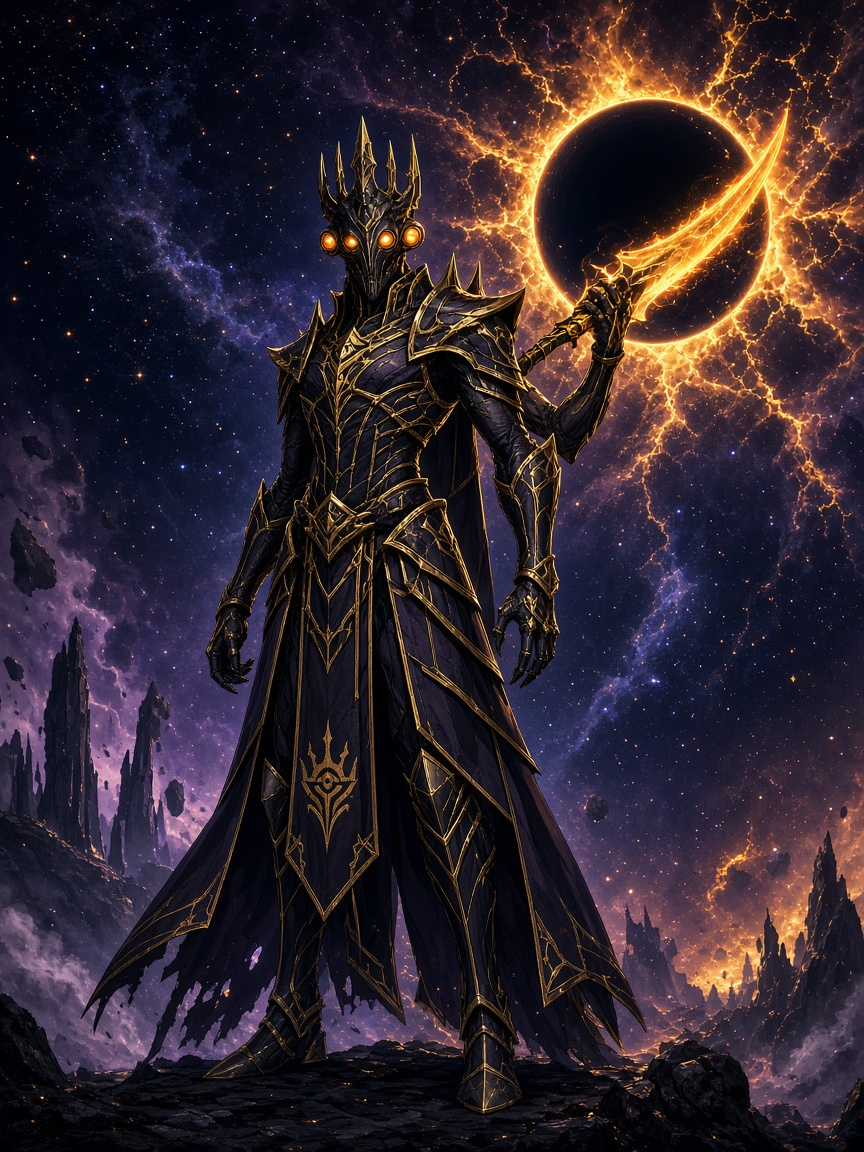
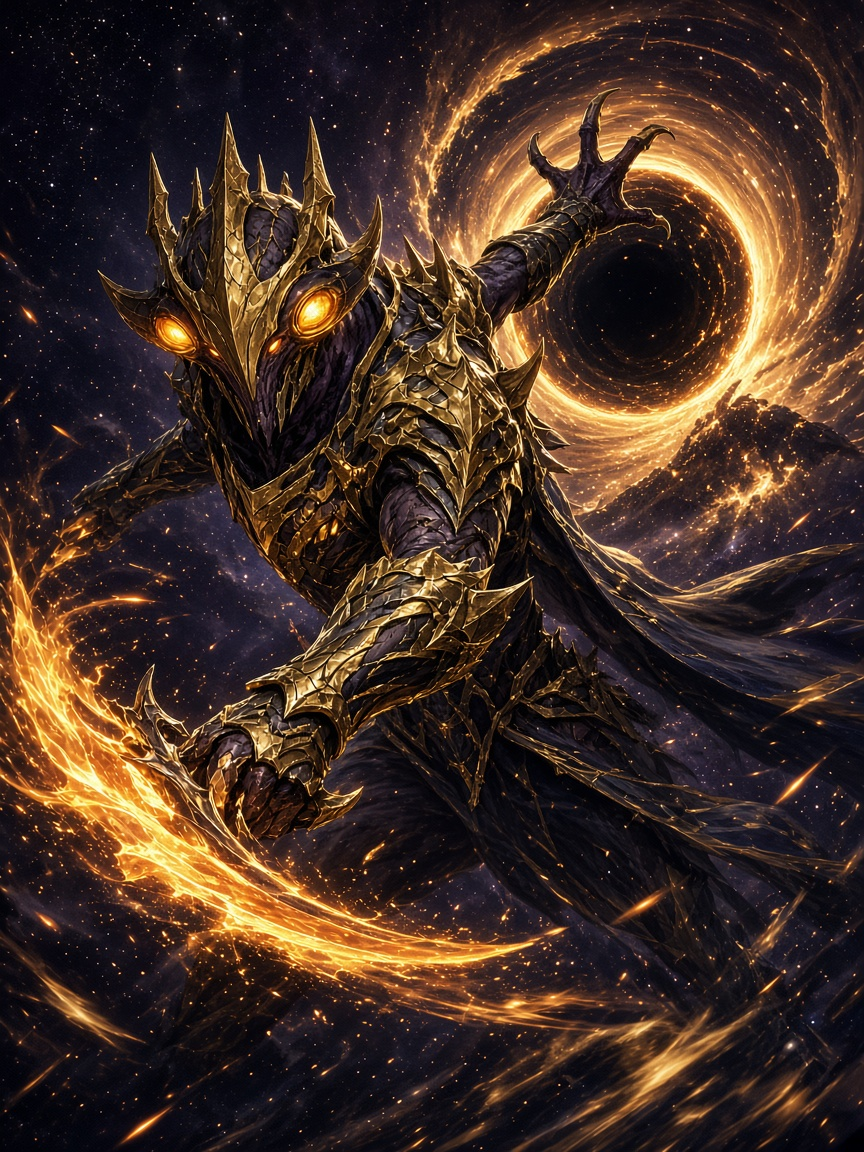
Villains in action poses

diff --git a/index.html b/index.html
@@ -62,8 +62,8 @@ figure{margin:16px 0 0}figure img{width:100%;border-radius:14px;border:1px solid
 <li><b>The Tyrenies</b> are his minions. They're tall aliens with an extra arm on their backs that can grab you or swing a weapon. They have eyes where their ears should be, so they can see from every side.</li>
 </ul>
 <div class="villains">
-<figure><img src="images/tyrantus.jpg" alt="Tyrantus, the alien king of Tytaculus, with a third arm on his back holding a glowing blade"><figcaption>Tyrantus, king of Tytaculus</figcaption></figure>
-<figure><img src="images/tyrenies.jpg" alt="A squad of Tyrenies stepping out of a space rift during an eclipse"><figcaption>The Tyrenies come through the rift</figcaption></figure>
+<figure><img src="images/tyrantus.jpg" alt="Tyrantus, the alien king of Tytaculus, with a third arm on his back holding a glowing blade"><figcaption>Tyrantus, king of Tytaculus, attacks!</figcaption></figure>
+<figure><img src="images/tyrenies.jpg" alt="A squad of Tyrenies stepping out of a space rift during an eclipse"><figcaption>The Tyrenies charge through the rift</figcaption></figure>
 </div></section>
 <section class="card"><div class="icon">🌑</div><h2>The Rift</h2>
 <p>There's no mothership. Instead, a space event like an eclipse keeps coming back, and each time it tears the fabric of space-time. When a rift opens, the Tyrenies teleport straight through. When you see the sky go dark, get ready!</p></section>
